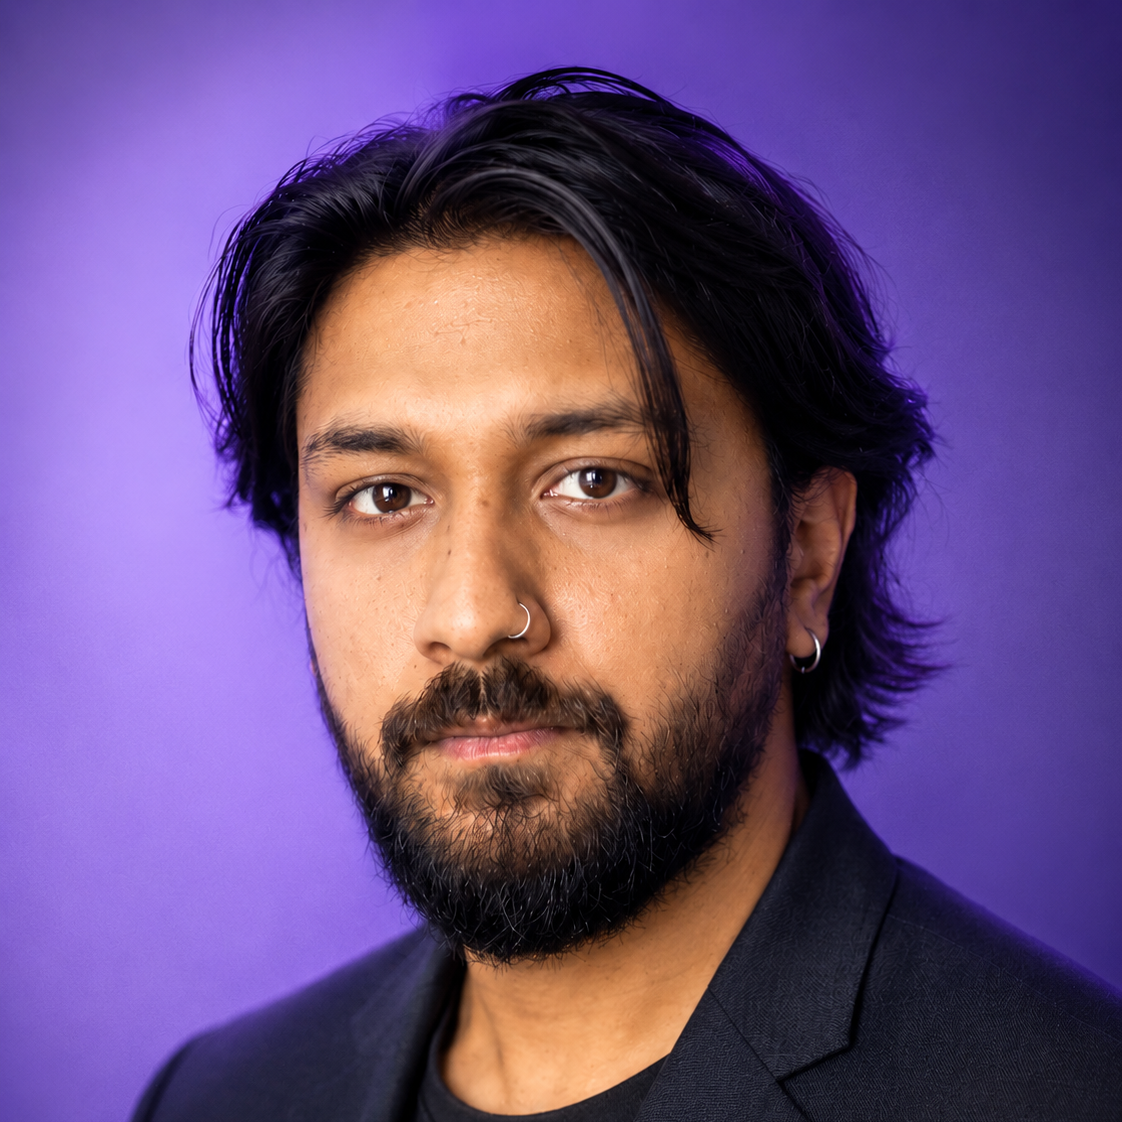
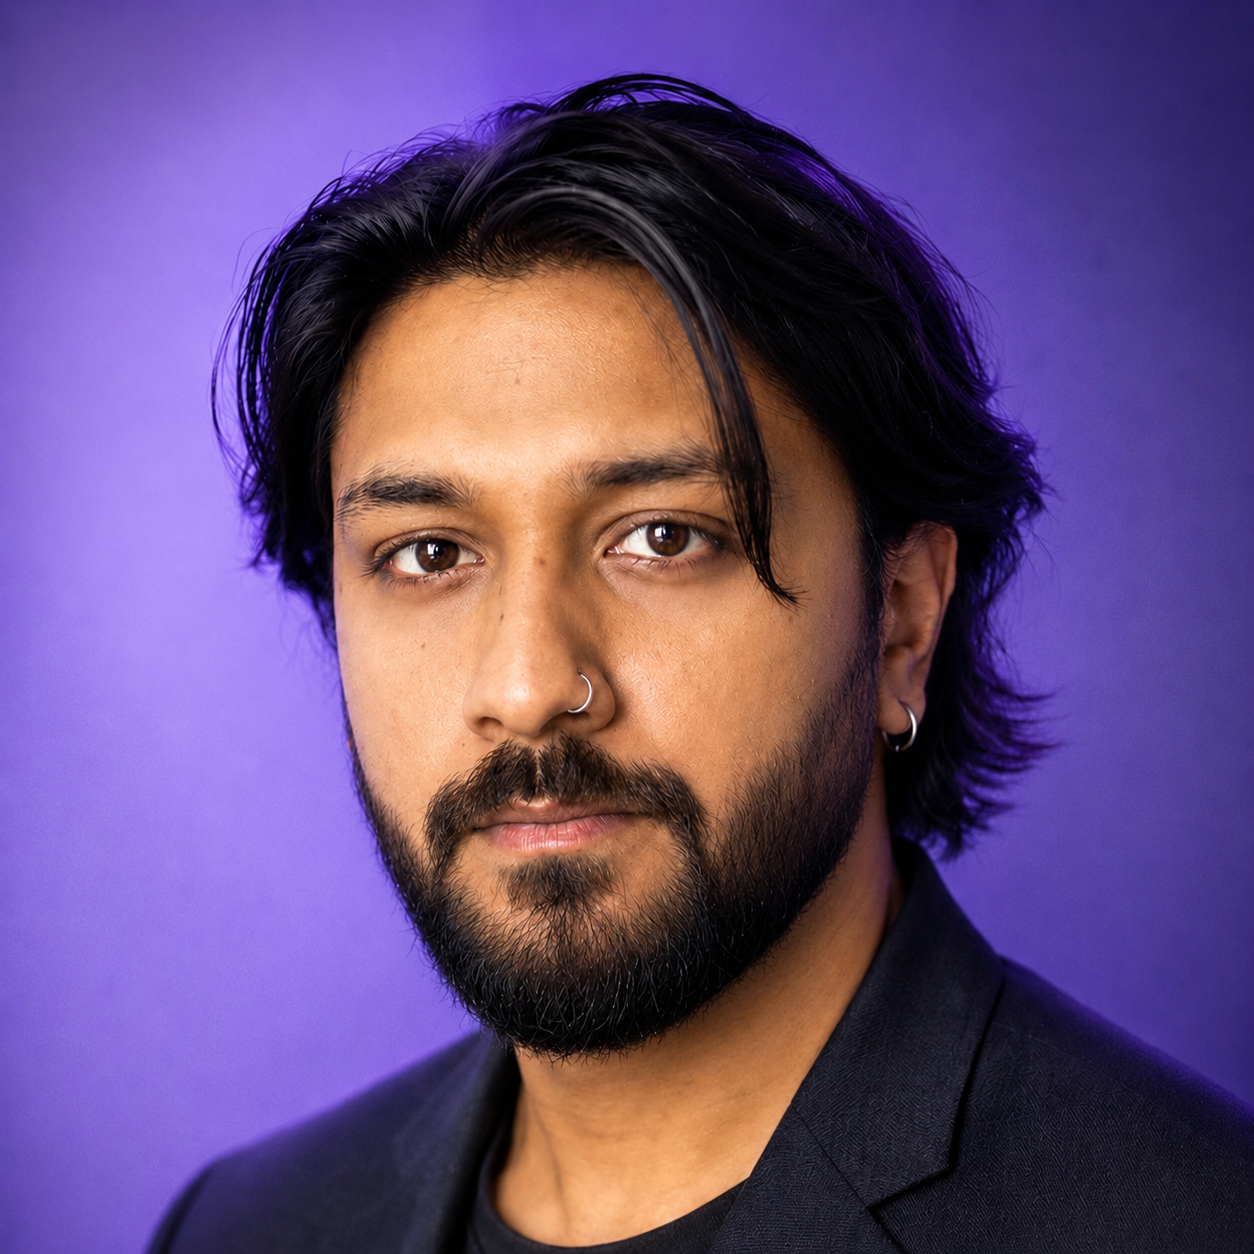
Modif de la pp, ajout du cv téléchargeable dans menu burger, modif des cartes projets, modif de styles de modal pop mobile

diff --git a/src/components/Modal/Modal.vue b/src/components/Modal/Modal.vue
@@ -303,47 +303,77 @@ h2 {
 /* Mobile */
 @media (max-width: 768px) {
     .modal {
-        padding: 15px;
+        padding: 10px;
     }
 
     .modal-inner {
-        padding: 24px;
+        width: 100%;
+        max-width: 100%;
+        max-height: calc(100vh - 20px);
+        overflow-y: hidden;
+        padding: 20px;
         border-radius: 18px;
     }
 
     .modal-header {
-        gap: 14px;
-        margin-bottom: 22px;
+        gap: 12px;
+        margin-bottom: 18px;
+        padding-right: 20px;
     }
 
     .icon-box {
-        width: 48px;
-        height: 48px;
+        width: 44px;
+        height: 44px;
     }
 
     h2 {
-        font-size: 24px;
+        font-size: 22px;
+        margin-bottom: 0;
+    }
+
+    .image-container {
+        padding: 12px;
+        margin-bottom: 18px;
+        aspect-ratio: 4 / 3;
+    }
+
+    .modal-image {
+        border-radius: 10px;
     }
 
     .description {
-        font-size: 16px;
+        font-size: 15px;
+        line-height: 1.6;
+        margin-bottom: 18px;
     }
+
+    .tags {
+        gap: 8px;
+        margin-bottom: 20px;
+    }
+
+    .tags span {
+        padding: 6px 10px;
+        font-size: 12px;
+    }
+
     .buttons {
         flex-direction: column;
-        gap: 14px;
+        gap: 12px;
+        padding-top: 18px;
     }
 
     .btn {
         width: 100%;
-        min-height: 52px;
-        padding: 14px 18px;
-        font-size: 17px;
+        min-height: 46px;
+        padding: 12px 16px;
+        font-size: 15px;
         border-radius: 12px;
     }
 
     .btn svg {
-        width: 22px;
-        height: 22px;
+        width: 18px;
+        height: 18px;
     }
 }
 </style>

diff --git a/src/components/Header.vue b/src/components/Header.vue
@@ -27,6 +27,13 @@
                         Contact
                     </a>
                 </li>
+                <li class="cv-nav-item">
+                    <a href="/src/public/CV.pdf" download class="btn btn-cv"
+                    @click="isOpen = false">
+                        Télécharger CV
+                        <Download class="icon"/>
+                    </a>
+                </li>
             </ul>
         </nav>
 
@@ -102,11 +109,12 @@
         display: flex;
         justify-content: center;
         align-items: center;
-        gap: 15px;
+        gap: 12px;
 
         border-radius: 8px;
         text-decoration: none;
         font-weight: 500;
+        font-size: 14px;
         transition: transform 0.3s ease, box-shadow 0.3s ease;
     }
 
@@ -116,6 +124,11 @@
         color: #94a1b2;
         height: 40px;
         width: 200px;
+        padding: 0 16px;
+    }
+
+    nav .cv-nav-item {
+        display: none;
     }
 
     .icon {
@@ -183,6 +196,15 @@
         display: none;
     }
 
+    nav .cv-nav-item {
+        display: block;
+    }
+
+    nav .cv-nav-item .btn-cv {
+        display: flex;
+        width: auto;
+    }
+
     .burger {
         display: block;
         z-index: 200;
@@ -219,7 +241,12 @@
     }
 
     nav a {
-        font-size: 18px;
+        font-size: 16px;
+    }
+
+    nav .cv-nav-item .btn-cv {
+        width: auto;
+        padding: 10px 18px;
     }
 }
 
@@ -241,10 +268,22 @@
     }
 
     .btn-cv {
+        display: none;
         width: 170px;
         height: 42px;
         font-size: 14px;
         gap: 10px;
+        padding: 0 14px;
+    }
+
+    nav .cv-nav-item {
+        display: block;
+    }
+
+    nav .cv-nav-item .btn-cv {
+        display: flex;
+        width: auto;
+        padding: 11px 18px;
     }
 
     .icon {

diff --git a/src/components/Project.vue b/src/components/Project.vue
@@ -20,10 +20,6 @@
                         <h3>{{ p.titre }}</h3>
                     </div>
 
-                    <p class="description">
-                        {{ p.description }}
-                    </p>
-
                     <div class="tags">
                         <!--pour chaque technologie dans p.technologies, je l'appelle tech
                         Généres automatiquement d'autres span pour les autres techs-->
@@ -95,7 +91,7 @@ h2 {
 /* Carte */
 .card {
     width: 360px;
-    min-height: 520px;
+    min-height: 450px;
 
     display: flex;
     flex-direction: column;